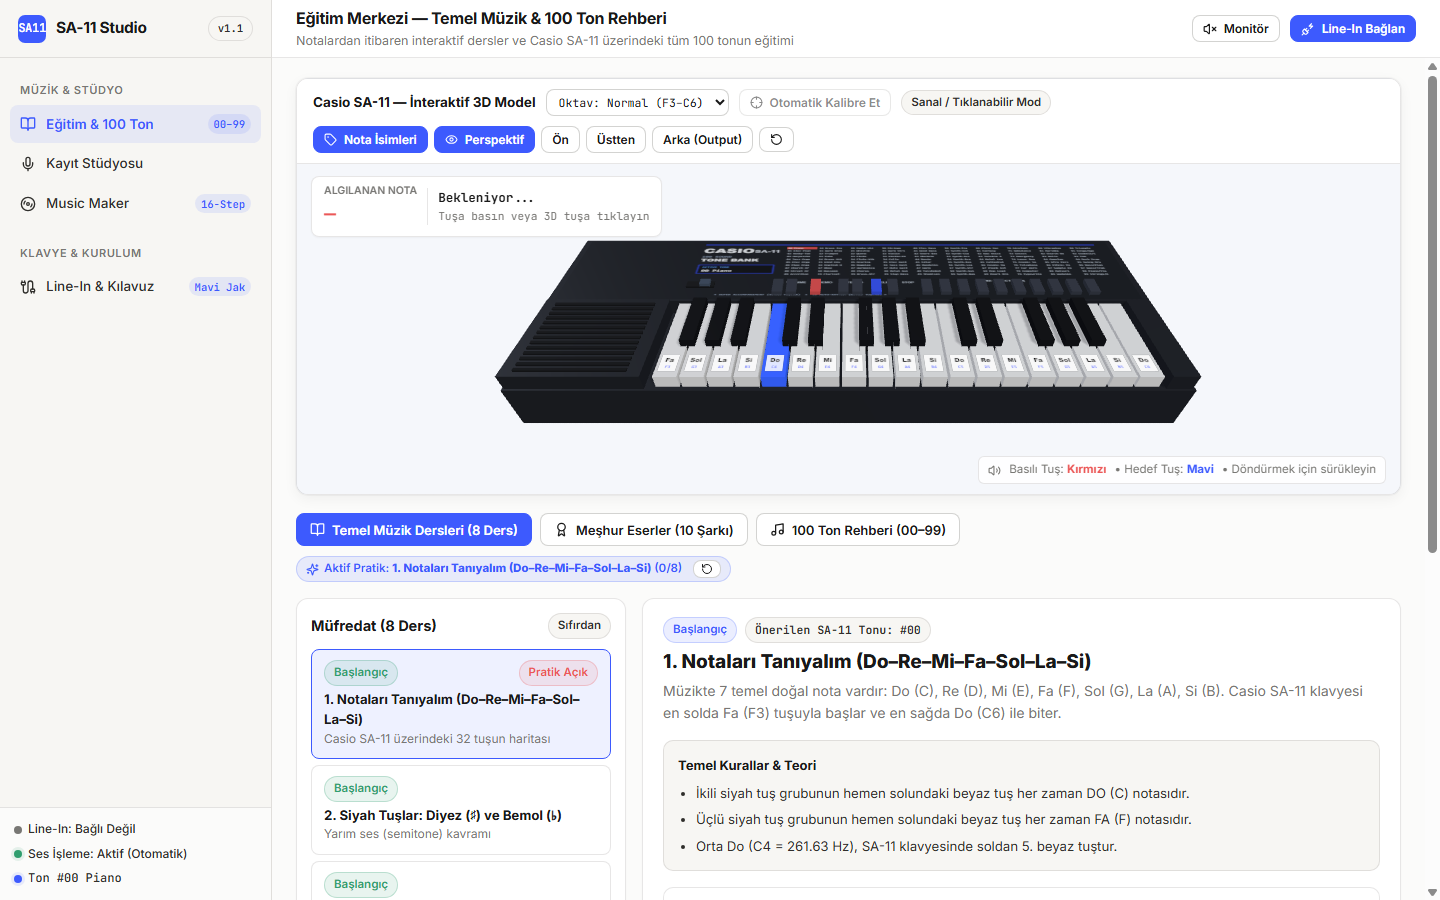
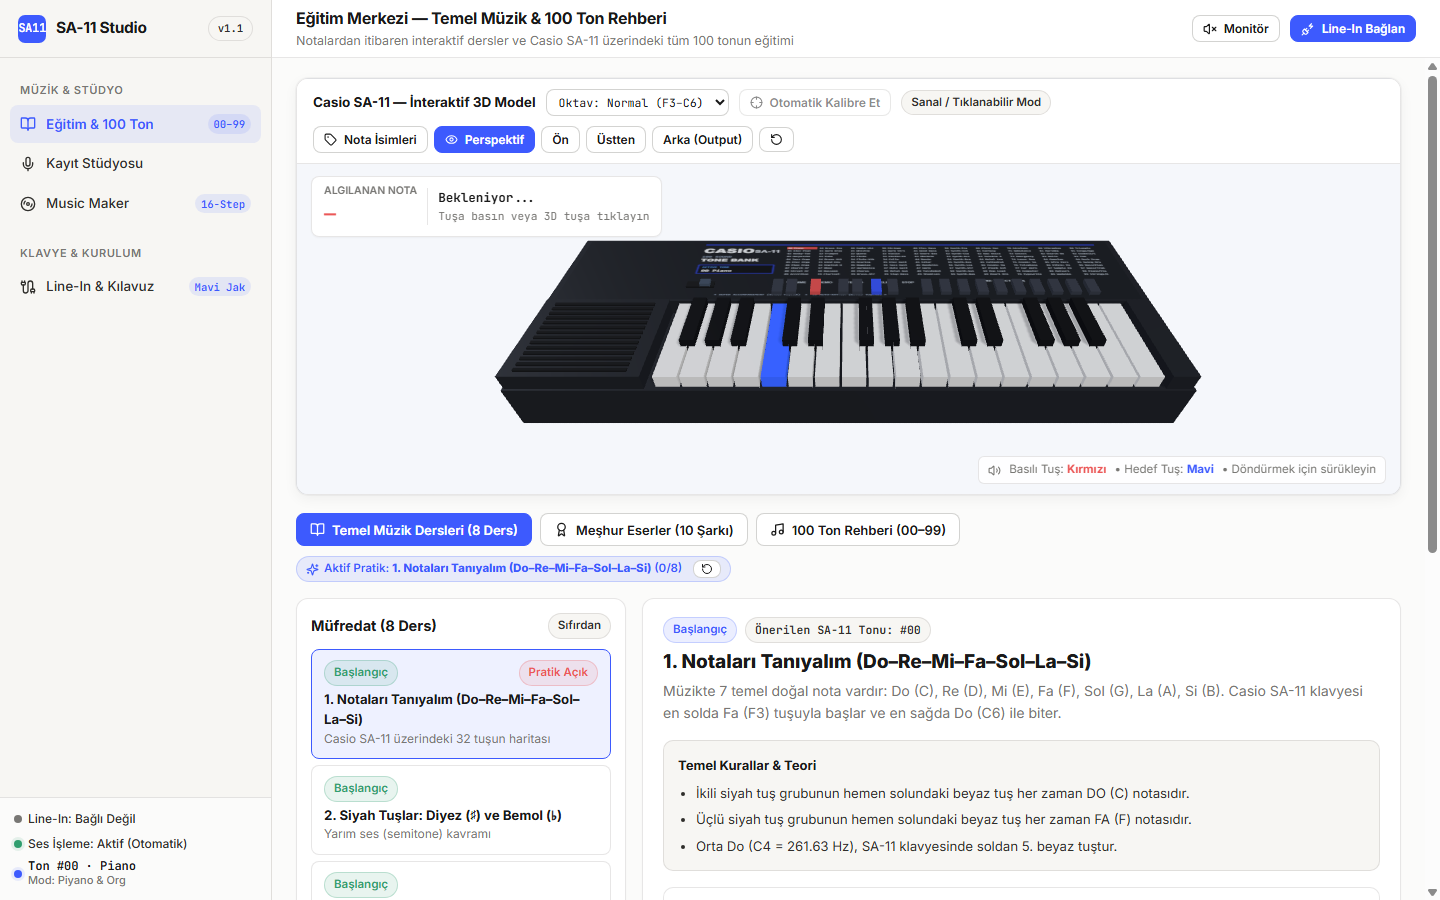
Update README hero preview with clean 3D keys (note labels off by default)

Changed region(s): [[0.4688, 0.3733, 0.8125, 0.4356], [0.0, 0.9022, 0.125, 0.9956], [0.2188, 0.1244, 0.3125, 0.1867]]

diff --git a/frontend/src/App.tsx b/frontend/src/App.tsx
@@ -45,7 +45,7 @@ export function App() {
   const [selectedToneCode, setSelectedToneCode] = useState<string>(initial.selectedToneCode ?? '00');
   const [octaveShift, setOctaveShift] = useState<number>(initial.octaveShift ?? 0);
   const [tuningCents, setTuningCents] = useState<number>(initial.tuningCents ?? 0);
-  const [showKeyLabels, setShowKeyLabels] = useState<boolean>(initial.showKeyLabels ?? true);
+  const [showKeyLabels, setShowKeyLabels] = useState<boolean>(initial.showKeyLabels ?? false);
   const [isCalibrating, setIsCalibrating] = useState<boolean>(false);
   const [calibrationProgress, setCalibrationProgress] = useState<number>(0);
   const calibSamplesRef = useRef<number[]>([]);
